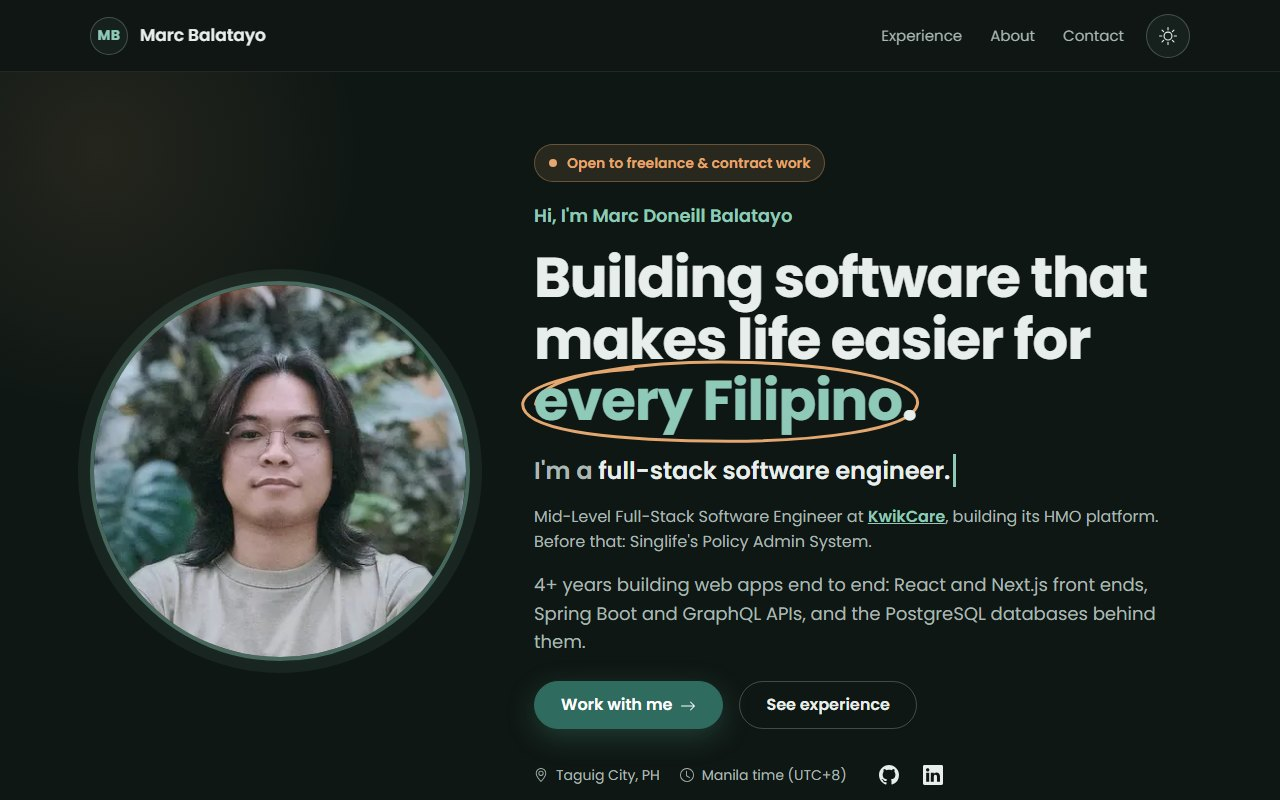
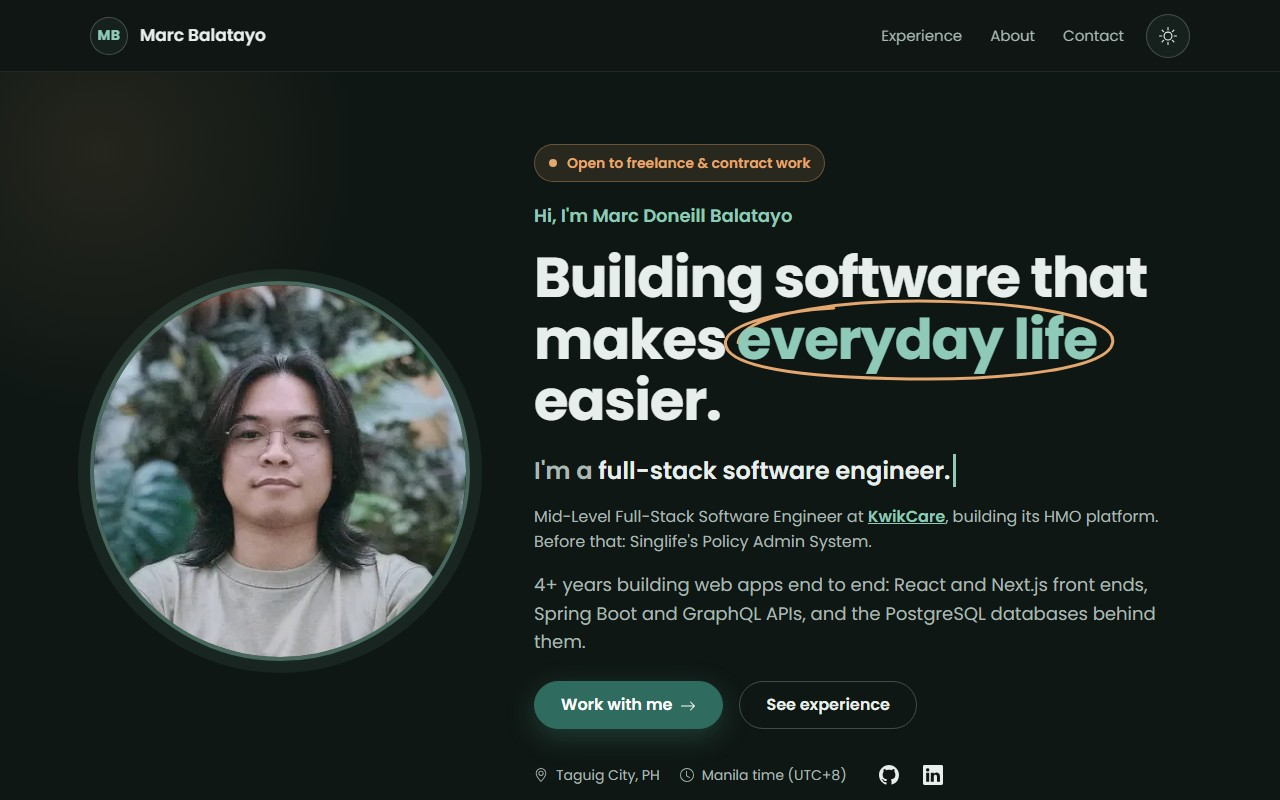
docs: date v1.0.0, refresh the hero screenshot and the lint note

Changed region(s): [[0.4062, 0.375, 0.875, 0.5625]]

diff --git a/CLAUDE.md b/CLAUDE.md
@@ -20,7 +20,7 @@ npm run dev             # dev server on http://localhost:3000
 npm run build           # production build (Turbopack)
 npm run start           # serve the production build
 npm run typecheck       # next typegen && tsc --noEmit
-npm run lint            # eslint . (includes the layer guards and id-length)
+npm run lint            # next typegen && eslint . (includes the layer guards and id-length)
 npm run format          # prettier --write .
 npm run format:check    # prettier --check .
 npm run test            # vitest run

diff --git a/CHANGELOG.md b/CHANGELOG.md
@@ -4,7 +4,7 @@ All notable changes to this project are documented in this file.
 
 The format is based on [Keep a Changelog](https://keepachangelog.com/en/1.1.0/), and this project adheres to [Semantic Versioning](https://semver.org/spec/v2.0.0.html).
 
-## [1.0.0] - 2026-11-15
+## [1.0.0] - 2026-11-16
 
 ### Added
 
